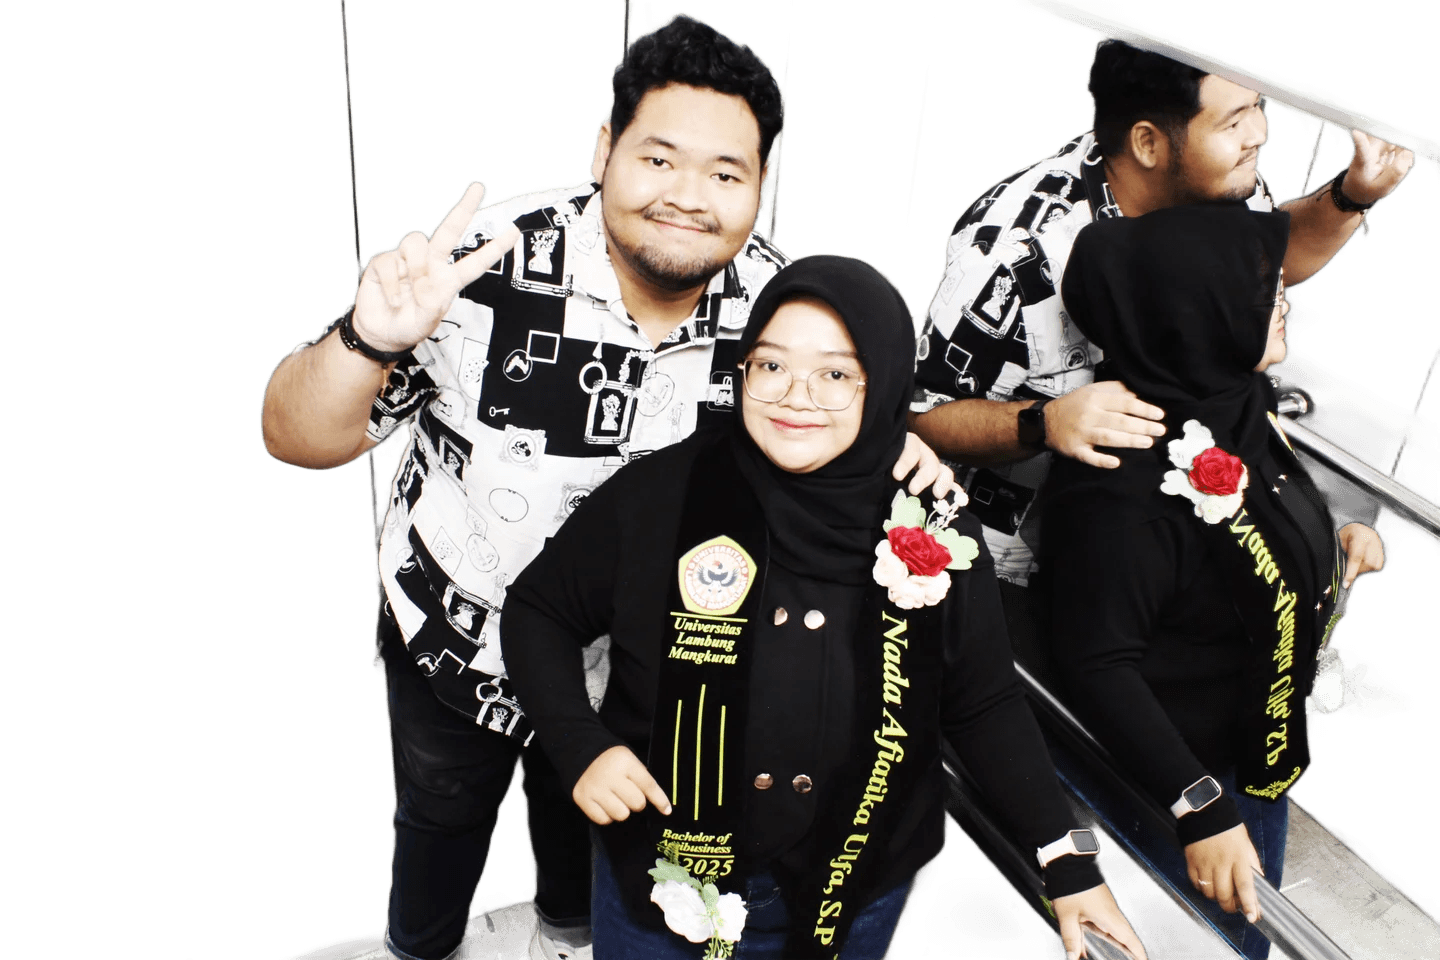
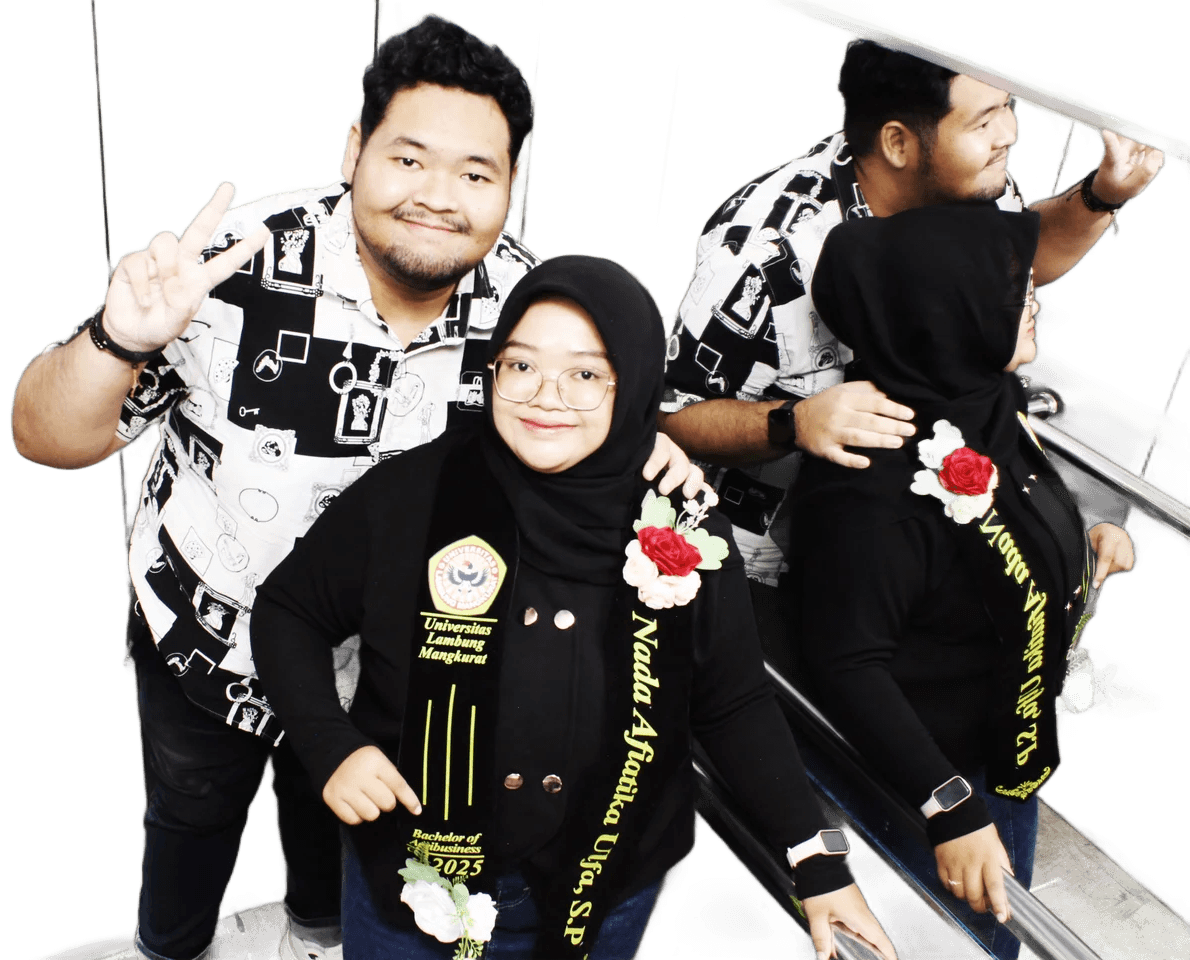
fix(images): crop empty transparent bounds on mood PNGs and optimize spacing across components

diff --git a/src/components/FourYearTimeline.jsx b/src/components/FourYearTimeline.jsx
@@ -75,13 +75,13 @@ export default function FourYearTimeline({ photos = [], onSelectPhoto }) {
       </div>
 
       {/* Interactive Tabs for Years (Grid on mobile to fit all 4 years without clipping) */}
-      <div className="flex justify-center mb-8 sm:mb-12">
-        <div className="grid grid-cols-4 w-full max-w-lg p-1 sm:p-1.5 bg-rose-100/70 border border-rose-200/80 rounded-2xl shadow-inner gap-1 sm:gap-2">
+      <div className="flex justify-center mb-6 sm:mb-10">
+        <div className="grid grid-cols-4 w-full max-w-md p-1 sm:p-1.5 bg-rose-100/70 border border-rose-200/80 rounded-2xl shadow-inner gap-1 sm:gap-2">
           {chapters.map((ch) => (
             <button
               key={ch.year}
               onClick={() => setActiveYearTab(ch.year)}
-              className={`flex flex-col sm:flex-row items-center justify-center gap-0.5 sm:gap-2 px-1 sm:px-4 py-2 sm:py-2.5 rounded-xl text-center transition-all duration-300 cursor-pointer ${
+              className={`flex flex-col sm:flex-row items-center justify-center gap-0.5 sm:gap-2 px-1 sm:px-4 py-1.5 sm:py-2.5 rounded-xl text-center transition-all duration-300 cursor-pointer ${
                 activeYearTab === ch.year
                   ? 'bg-rose-500 text-white shadow-md shadow-rose-500/30 font-bold scale-[1.02]'
                   : 'text-gray-700 hover:text-rose-700 hover:bg-white/60 font-medium'
@@ -99,7 +99,7 @@ export default function FourYearTimeline({ photos = [], onSelectPhoto }) {
         {/* Glow accent */}
         <div className="absolute top-0 right-0 w-64 h-64 bg-rose-100/50 rounded-full blur-3xl pointer-events-none" />
 
-        <div className="relative z-10 flex flex-col md:flex-row md:items-center justify-between gap-4 sm:gap-6 mb-6 sm:mb-8 border-b border-rose-100/80 pb-5 sm:pb-6">
+        <div className="relative z-10 flex flex-col md:flex-row md:items-center justify-between gap-3 sm:gap-6 mb-5 sm:mb-8 border-b border-rose-100/80 pb-4 sm:pb-6">
           <div>
             <span className="inline-block text-[11px] sm:text-xs uppercase tracking-wider font-bold text-rose-500 mb-1">
               {currentChapter.period}
@@ -112,9 +112,9 @@ export default function FourYearTimeline({ photos = [], onSelectPhoto }) {
             </p>
           </div>
 
-          <div className="w-full md:w-auto px-3.5 sm:px-4 py-2 bg-rose-50 border border-rose-200/60 rounded-2xl flex items-start sm:items-center gap-2 text-rose-700 text-xs font-semibold">
-            <Sparkles className="w-4 h-4 text-amber-500 shrink-0 mt-0.5 sm:mt-0" />
-            <span className="leading-snug">{currentChapter.milestone}</span>
+          <div className="w-full md:w-auto px-3 sm:px-4 py-1.5 sm:py-2 bg-rose-50 border border-rose-200/60 rounded-2xl flex items-start sm:items-center gap-1.5 text-rose-700 font-semibold">
+            <Sparkles className="w-3.5 h-3.5 text-amber-500 shrink-0 mt-0.5 sm:mt-0" />
+            <span className="leading-snug text-[11px] sm:text-xs">{currentChapter.milestone}</span>
           </div>
         </div>
 

diff --git a/src/components/OpenWhenLetters.jsx b/src/components/OpenWhenLetters.jsx
@@ -196,26 +196,26 @@ export default function OpenWhenLetters() {
             </div>
 
             {/* Scrollable Body: Content, Cutout Photo, and Signature flow in sequence with NO overlapping */}
-            <div className="flex-1 overflow-y-auto px-5 sm:px-8 py-5 space-y-6 overscroll-contain touch-pan-y no-scrollbar">
+            <div className="flex-1 overflow-y-auto px-5 sm:px-8 py-4 sm:py-5 space-y-4 sm:space-y-5 overscroll-contain touch-pan-y no-scrollbar">
               {/* Content Body in Romantic Typography */}
-              <div className="space-y-4 text-gray-800 font-romantic text-sm sm:text-base leading-relaxed">
+              <div className="space-y-3.5 sm:space-y-4 text-gray-800 font-romantic text-sm sm:text-base leading-relaxed">
                 {activeLetter.content.map((paragraph, idx) => (
                   <p key={idx}>{paragraph}</p>
                 ))}
               </div>
 
-              {/* Transparent Couple Cutout - placed AFTER text in natural flow */}
-              <div className="pt-2 pb-2 flex flex-col items-center justify-center select-none relative">
+              {/* Transparent Couple Cutout - tight, nicely sized, zero empty space */}
+              <div className="pt-1 pb-1 flex flex-col items-center justify-center select-none relative">
                 <div className="relative w-full flex flex-col items-center justify-center">
                   {/* Soft warm romantic glow behind cutout */}
                   <div className="absolute inset-0 bg-gradient-to-t from-rose-200/40 via-pink-100/20 to-transparent rounded-full blur-2xl pointer-events-none" />
                   <img
                     src={activeLetter.cutout || '/bg_couple_right.png'}
                     alt={activeLetter.title}
-                    className="relative max-h-[220px] sm:max-h-[260px] w-auto max-w-[85%] object-contain drop-shadow-md opacity-95 [mask-image:linear-gradient(to_bottom,black_85%,transparent_100%)] animate-float-slow"
+                    className="relative max-h-[250px] sm:max-h-[300px] w-auto max-w-[95%] sm:max-w-[85%] object-contain drop-shadow-md opacity-95 [mask-image:linear-gradient(to_bottom,black_90%,transparent_100%)] animate-float-slow"
                   />
                   {activeLetter.caption && (
-                    <span className="text-[11px] sm:text-xs font-romantic italic text-rose-500/90 mt-2 text-center px-4 tracking-wide">
+                    <span className="text-[11px] sm:text-xs font-romantic italic text-rose-600 mt-2 text-center px-4 max-w-sm tracking-wide leading-snug">
                       {activeLetter.caption}
                     </span>
                   )}

diff --git a/src/components/TimeCapsuleWishBox.jsx b/src/components/TimeCapsuleWishBox.jsx
@@ -134,15 +134,15 @@ export default function TimeCapsuleWishBox() {
 
         {/* Wishes Display List */}
         <div className="lg:col-span-7 space-y-3.5">
-          <div className="flex items-center justify-between mb-1">
+          <div className="flex flex-col sm:flex-row sm:items-center justify-between gap-1.5 mb-2">
             <h4 className="text-xs sm:text-sm font-bold text-gray-800 flex items-center gap-1.5">
-              <Heart className="w-4 h-4 fill-rose-500 text-rose-500" />
-              <span>Harapan yang Sudah Terkunci ({wishes.length})</span>
+              <Heart className="w-4 h-4 fill-rose-500 text-rose-500 shrink-0" />
+              <span>Harapan yang Terkunci ({wishes.length})</span>
             </h4>
             {isFirebaseConfigured ? (
-              <span className="text-[11px] text-emerald-600 font-medium flex items-center gap-1.5 bg-emerald-50 px-2.5 py-0.5 rounded-full border border-emerald-200">
-                <span className="w-1.5 h-1.5 rounded-full bg-emerald-500 animate-pulse"></span>
-                Tersinkron di Semua HP ✨
+              <span className="self-start sm:self-auto text-[10px] text-emerald-600 font-semibold flex items-center gap-1.5 bg-emerald-50 px-2 py-0.5 rounded-full border border-emerald-200 whitespace-nowrap">
+                <span className="w-1.5 h-1.5 rounded-full bg-emerald-500 animate-pulse shrink-0"></span>
+                <span>Tersinkron di Semua HP ✨</span>
               </span>
             ) : (
               <span className="text-[11px] text-gray-400">Tersimpan di Kapsul ✨</span>
